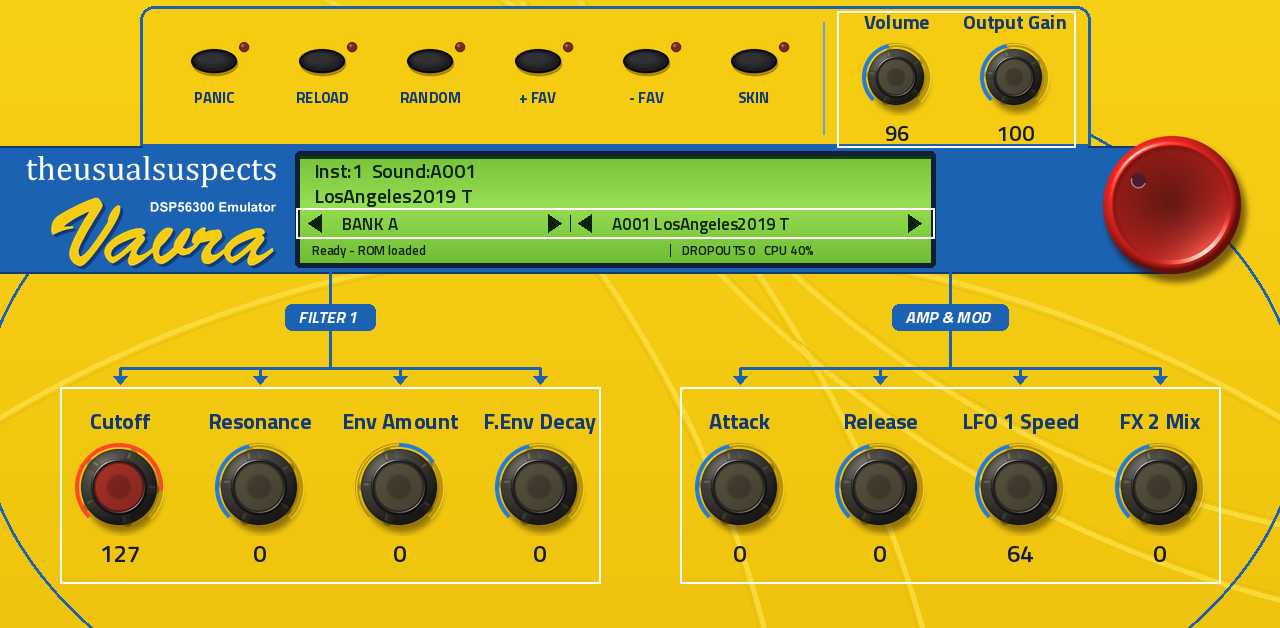
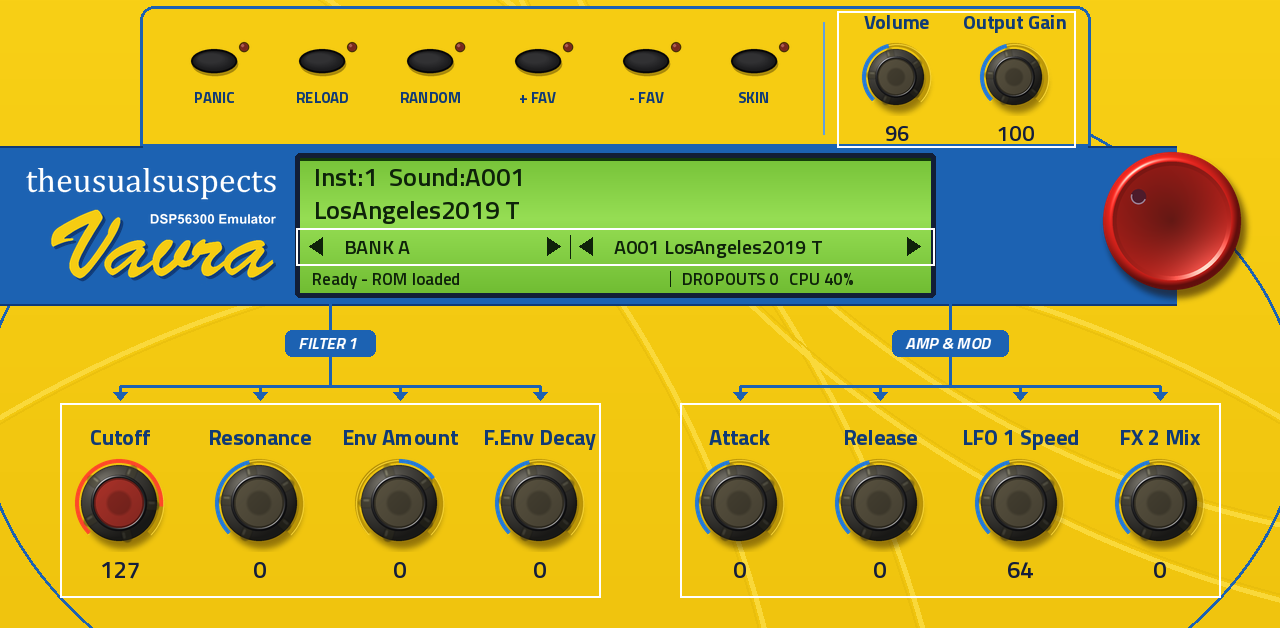
MAIN: a taller bar and LCD with bigger text; shorter connectors to the perf knobs
Claude-Session: https://claude.ai/code/session_01JtHXuU5P5A4jz5VUQ1Liwm

Changed region(s): [[0.0, 0.2118, 1.0, 0.9682]]

diff --git a/tools/make_tui.py b/tools/make_tui.py
@@ -336,7 +336,7 @@ def page_main(fn):
     the perf knobs under the bar, big, joined to it by blue lines."""
     pg = Page("MAIN", fn)
     d = ImageDraw.Draw(pg.art)
-    BY0, BY1 = 146, 272                                                                    # the blue bar
+    BY0, BY1 = 146, 304                                                                    # the blue bar
     x0, x1 = 300, 930                                                                      # the LCD
     mid = (x0 + x1) // 2
     d.ellipse((-20, 30, 1300, 800), outline=A.BLUE + (255,), width=3)                       # the oval (its bottom below the page)
@@ -355,38 +355,38 @@ def page_main(fn):
     pg.knob("AmpVolume", xd + 15 + KQ // 2, 78, "Volume", box=(64, 66))
     pg.knob("gain", xd + 15 + KQ // 2 + KQ, 78, "Output Gain", box=(64, 66))
     # the bar: badge, LCD, data dial
-    A.wordmark(pg.art, 26, BY0 + 10, 250)
-    y0, y1 = BY0 + 10, BY1 - 10
+    A.wordmark(pg.art, 26, BY0 + 22, 250)
+    y0, y1 = BY0 + 12, BY1 - 12
     A.lcd(pg.art, x0, y0, x1, y1, cells=0)
     d = ImageDraw.Draw(pg.art)
-    r1, r2, r3 = y0 + 52, y0 + 81, y1
+    r1, r2, r3 = y0 + 70, y0 + 106, y1
     d.line((x0 + 6, r1, x1 - 6, r1), fill=A.LCD_DK + (255,), width=2)
     d.line((x0 + 6, r2, x1 - 6, r2), fill=A.LCD_DK + (255,), width=1)
-    pg.kids.append(label("%d %d %d 26" % (x0 + 12, y0 + 1, x1 - x0 - 24), "lcd1", 26, hexcol(A.LCD_INK), "left verticallyCentred", "Bold"))
-    pg.kids.append(label("%d %d %d 26" % (x0 + 12, y0 + 26, x1 - x0 - 24), "lcd2", 26, hexcol(A.LCD_INK), "left verticallyCentred", "Bold"))
-    display_row(pg, x0, r1 + 1, r2, [(570, "bank_name", "bank_prev", "bank_next"), (x1, "preset_name", "preset_prev", "preset_next")], 22, aw=30)
-    display_row(pg, x0, r2 + 1, r3, [(670, "loading_status", None, None), (x1, "engine_stats", None, None)], 18)
+    pg.kids.append(label("%d %d %d 34" % (x0 + 12, y0 + 1, x1 - x0 - 24), "lcd1", 34, hexcol(A.LCD_INK), "left verticallyCentred", "Bold"))
+    pg.kids.append(label("%d %d %d 34" % (x0 + 12, y0 + 34, x1 - x0 - 24), "lcd2", 34, hexcol(A.LCD_INK), "left verticallyCentred", "Bold"))
+    display_row(pg, x0, r1 + 1, r2, [(570, "bank_name", "bank_prev", "bank_next"), (x1, "preset_name", "preset_prev", "preset_next")], 27, aw=32)
+    display_row(pg, x0, r2 + 1, r3, [(670, "loading_status", None, None), (x1, "engine_stats", None, None)], 22)
     pg.kids.append(entry("preset dial", tag("vdial"), {"version": 1, "handleName": "Data"}, "%d %d %d %d" % (dx - DIAL // 2, dy - DIAL // 2, DIAL, DIAL),
                          remap=P("preset"), focus="Yes"))
     # the perf knobs under the bar, big, joined to it by blue lines with pointer tabs over each knob
-    ky = 488
+    ky = 504
     groups = [("filter 1", [("F1Cutoff", "Cutoff"), ("F1Resonance", "Resonance"), ("F1EnvMod", "Env Amount"), ("FilterEnvDecay", "F.Env Decay")], 120),
               ("amp & mod", [("AmpEnvAttack", "Attack"), ("AmpEnvRelease", "Release"), ("Lfo1Speed", "LFO 1 Speed"), ("FX2Mix", "FX 2 Mix")], 740)]
     for title, knobs, gx in groups:
         xs = [gx + i * 140 for i in range(len(knobs))]
         gm = (xs[0] + xs[-1]) // 2
-        d.line((gm, BY1, gm, 368), fill=A.BLUE + (255,), width=3)
-        d.line((xs[0], 368, xs[-1], 368), fill=A.BLUE + (255,), width=3)
+        d.line((gm, BY1, gm, 386), fill=A.BLUE + (255,), width=3)
+        d.line((xs[0], 386, xs[-1], 386), fill=A.BLUE + (255,), width=3)
         for x in xs:
-            d.line((x, 368, x, 376), fill=A.BLUE + (255,), width=3)
-            d.polygon([(x - 7, 376), (x + 7, 376), (x, 384)], fill=A.BLUE + (255,))
+            d.line((x, 386, x, 392), fill=A.BLUE + (255,), width=3)
+            d.polygon([(x - 7, 392), (x + 7, 392), (x, 400)], fill=A.BLUE + (255,))
         t = A.text_img(title.upper(), 16, A.WHITE, slant=0.2)
         tw = t.width + 22
-        d.rounded_rectangle((gm - tw // 2, 304, gm + tw // 2, 330), 7, fill=A.BLUE + (255,))
-        pg.art.alpha_composite(t, (gm - t.width // 2, 317 - t.height // 2))
+        d.rounded_rectangle((gm - tw // 2, 330, gm + tw // 2, 356), 7, fill=A.BLUE + (255,))
+        pg.art.alpha_composite(t, (gm - t.width // 2, 343 - t.height // 2))
         d = ImageDraw.Draw(pg.art)
         for (k, c), x in zip(knobs, xs):
-            pg.knob(k, x, ky, c, size=BIG, box=(98, 92))
+            pg.knob(k, x, ky, c, size=BIG, box=(98, 90))
         pg.block([k for k, _ in knobs])
     pg.block(["AmpVolume", "gain"])
     pg.block(["bank_index", "preset"], rect=(x0 - 4, r1, x1 + 4, r2 + 1))
